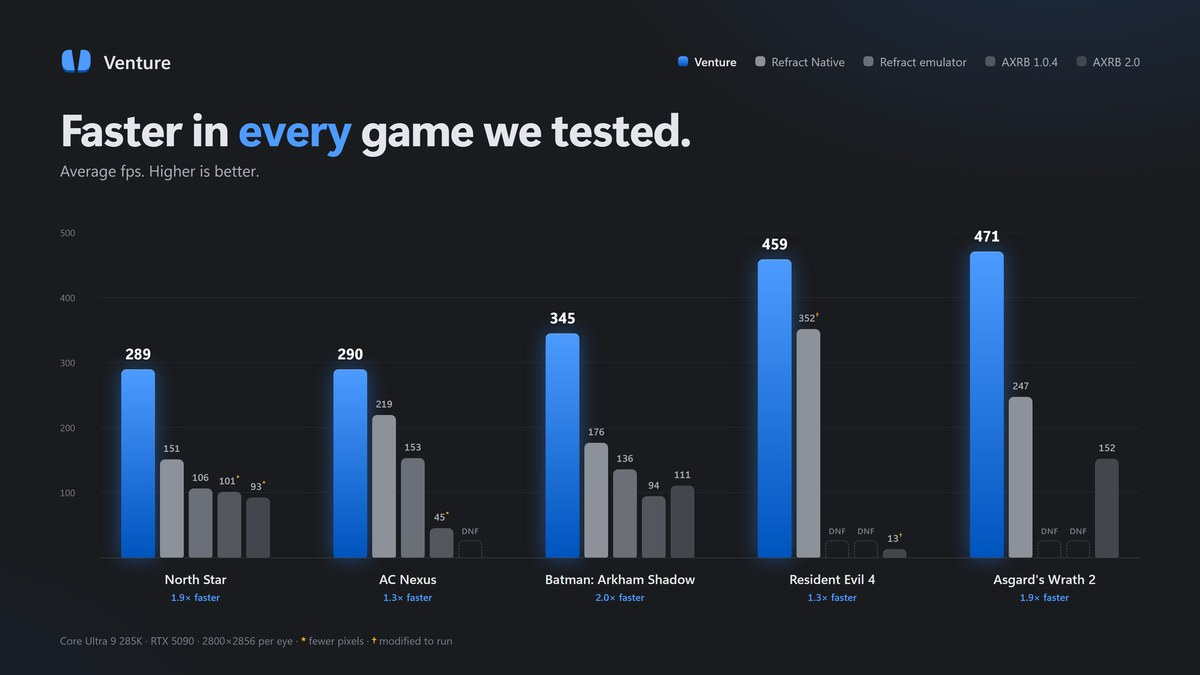
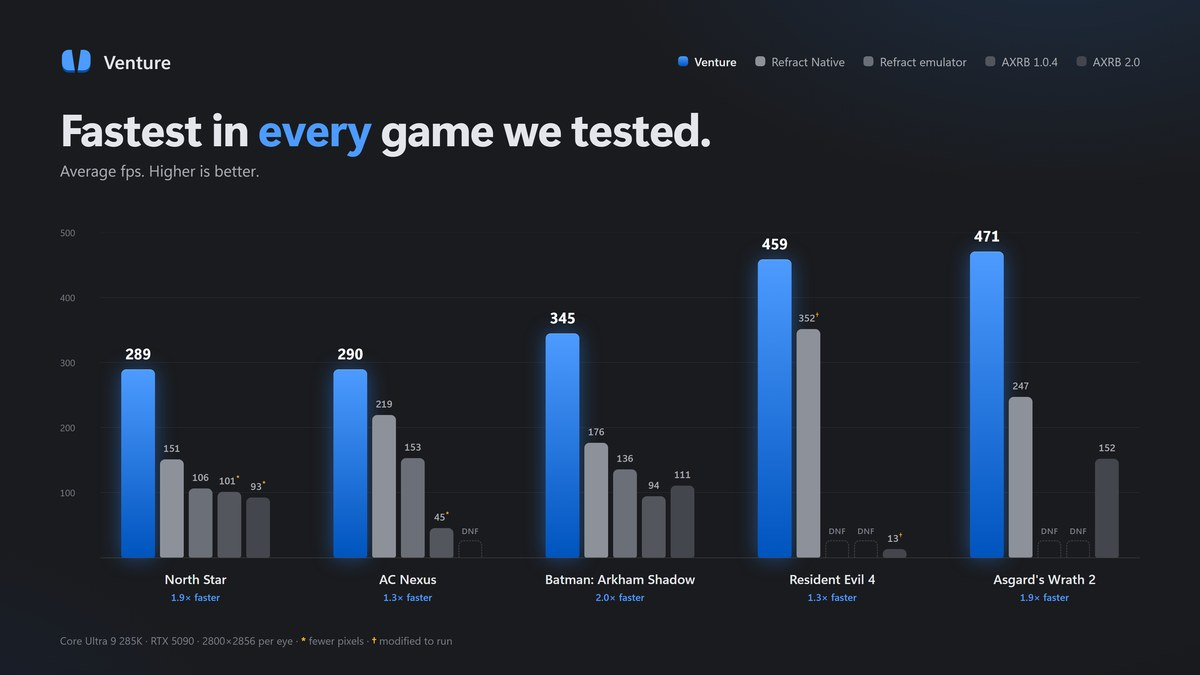
Headlines: runs every game we tested; 14 only ran on Venture

Changed region(s): [[0.1233, 0.1556, 0.5858, 0.2489]]

diff --git a/index.html b/index.html
@@ -80,8 +80,8 @@
     <div class="wrap">
       <div class="sec-head split">
         <div>
-          <h2 class="display">Runs <em>all 20</em>. Next best: 5.</h2>
-          <p class="sub"><b>14</b> of them run only on Venture.</p>
+          <h2 class="display">Runs <em>every</em> game we tested.</h2>
+          <p class="sub"><b>14</b> games only ran on Venture.</p>
         </div>
         <div class="totals" id="totals"></div>
       </div>
